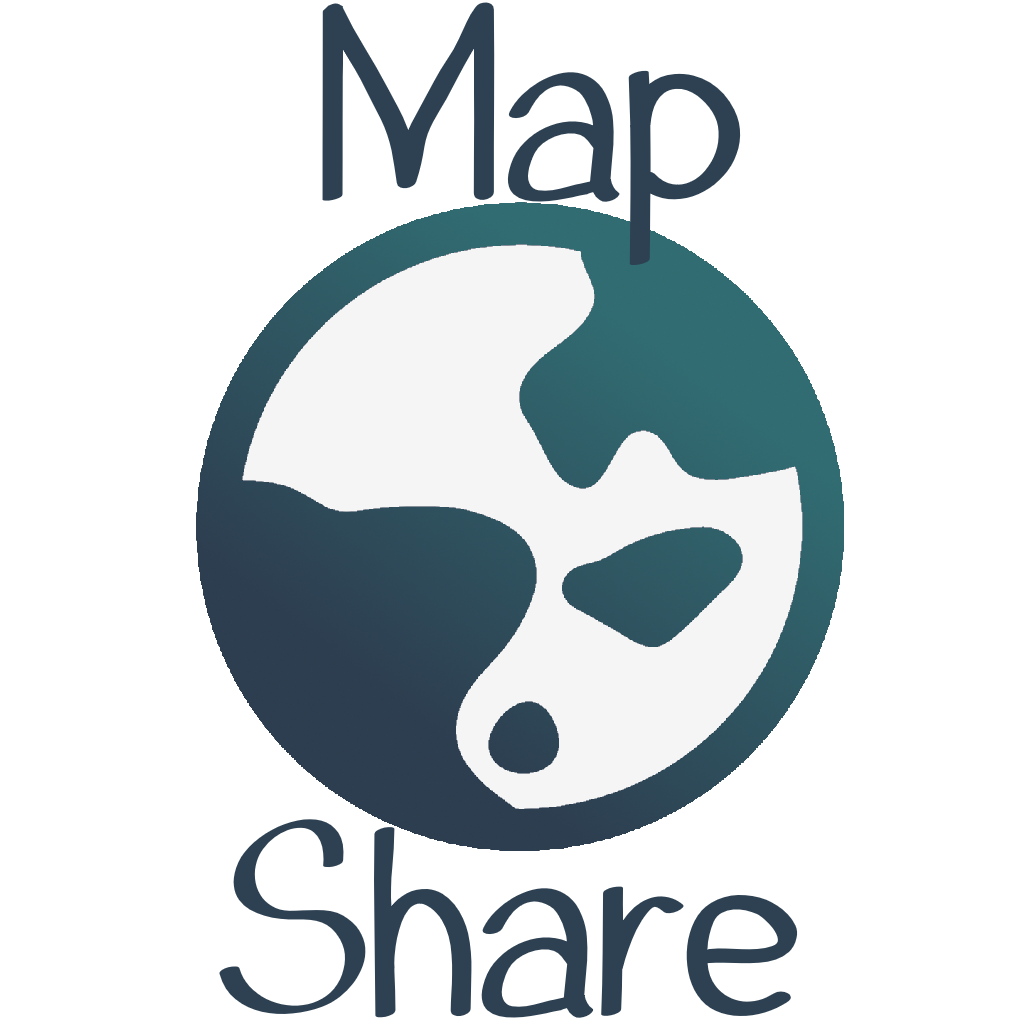
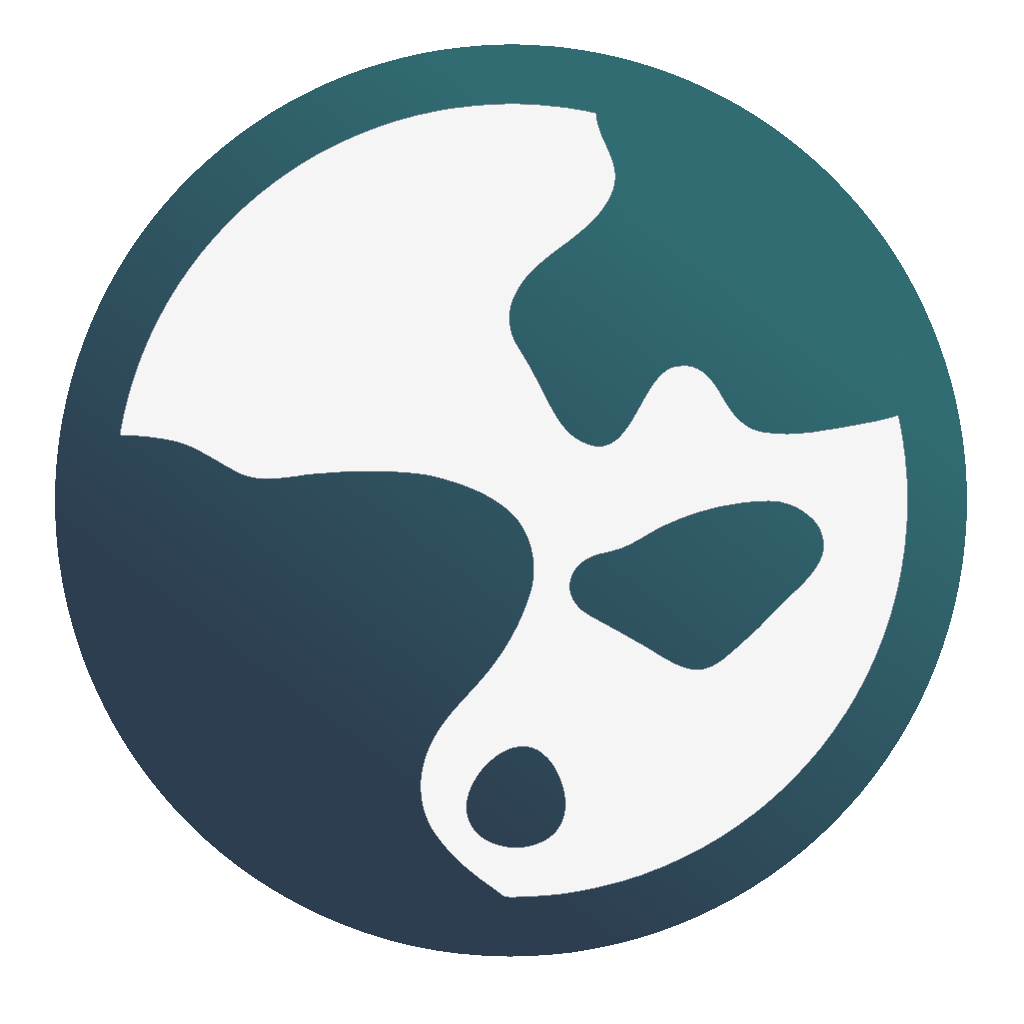
Added user display name and photo url to marker data.

diff --git a/app/screens/MapScreen.js b/app/screens/MapScreen.js
@@ -19,8 +19,6 @@ import * as Location from "expo-location";
 import UserData from "../UserData";
 import { db } from "../../config";
 import firebase from "firebase";
-import { debug } from "react-native-reanimated";
-import * as TaskManager from "expo-task-manager";
 
 const LOCATION_UPDATE = "locationUpdate";
 
@@ -57,6 +55,7 @@ export default class MapScreen extends Component {
 
   componentDidMount() {
     console.log("MOUNT");
+    UserData.updateUserPreferences(firebase.auth().currentUser);
     this.getLocationPermission((location) => {
       UserData.location = {
         latitude: location["coords"]["latitude"],
@@ -94,8 +93,12 @@ export default class MapScreen extends Component {
       this.updateMapMarkers();
     });
 
+    this.markersUpdateInterval = setInterval(this.updateMapMarkers, 10 * 1000);
+
     const { navigation } = this.props;
     this.focusListener = navigation.addListener("didFocus", () => {
+      this.focused = true;
+      console.log("Map screen focus");
       // Check if maps needs to be updated
       this.checkForMapUpdate();
 
@@ -119,8 +122,8 @@ export default class MapScreen extends Component {
     this.focusListener.remove();
     this.blurListener.remove();
 
-    if (this.updateInterval) {
-      clearInterval(this.updateInterval);
+    if (this.markersUpdateInterval) {
+      clearInterval(this.markersUpdateInterval);
     }
 
     Location.hasStartedLocationUpdatesAsync(LOCATION_UPDATE).then((value) => {
@@ -163,8 +166,10 @@ export default class MapScreen extends Component {
   }
 
   updateMapMarkers = async () => {
+    if (!this.focused) {
+      return;
+    }
     console.log("Updating markers");
-
     let markers = [];
 
     // Add user marker
@@ -194,7 +199,7 @@ export default class MapScreen extends Component {
               longitude: entry.val().longitude,
             },
             contentId: entry.val().imageId,
-            title: "Other user",
+            title: entry.val().displayName,
             image: require("../../assets/map-marker-light.png"),
           });
         });
@@ -202,6 +207,9 @@ export default class MapScreen extends Component {
         this.setState({
           markers: markers,
         });
+      })
+      .catch((err) => {
+        console.error(err);
       });
 
     console.log("Setting markers " + markers.length);
@@ -235,7 +243,7 @@ export default class MapScreen extends Component {
     return (
       <SafeAreaView style={styles.container}>
         <MapView
-          region={this.state.location}
+          initialRegion={this.state.location}
           style={styles.map}
           mapType="hybrid"
           maxZoomLevel={15}

diff --git a/app/screens/LoginScreen.js b/app/screens/LoginScreen.js
@@ -3,6 +3,7 @@ import {
   StyleSheet,
   View,
   Text,
+  Image,
   SafeAreaView,
   StatusBar,
   BackHandler,
@@ -15,12 +16,21 @@ import firebase from "firebase/app";
 import * as Facebook from "expo-facebook";
 
 class LoginScreen extends Component {
+  updateUserInfo = async (uid) => {
+    if (this.uploading) return;
+    this.uploading = true;
+
+    this.uploading = false;
+  };
+
   signInWithGoogle = async () => {
     console.log("LoginScreen.js | loggin in with google");
     try {
       const logInResult = await Google.logInAsync({
         androidClientId:
           "961970114032-jekqtd1ug6ugio4ql485g3fj0jdug14g.apps.googleusercontent.com",
+        androidStandaloneAppClientId:
+          "961970114032-h0k9tp0jbgeqc1kbf3rlp66bv20j7gbm.apps.googleusercontent.com",
       });
 
       if (logInResult.type === "success") {
@@ -59,22 +69,26 @@ class LoginScreen extends Component {
     const { navigation } = this.props;
     this.focusListener = navigation.addListener("didFocus", () => {
       // The screen is focused
-
+      console.log("Login focused");
       firebase.auth().onAuthStateChanged((user) => {
         if (user) {
           console.log("User authenticated");
-          this.props.navigation.navigate("Map");
+          navigation.navigate("Map");
         }
       });
 
       let user = firebase.auth().currentUser;
       if (user) {
         console.log("User already authenticated");
-        this.props.navigation.navigate("Map");
-      } else {
-        console.log("No current user");
+        navigation.navigate("Map");
       }
     });
+
+    let user = firebase.auth().currentUser;
+    if (user) {
+      console.log("User already authenticated");
+      navigation.navigate("Map");
+    }
   }
 
   componentWillUnmount() {
@@ -86,7 +100,10 @@ class LoginScreen extends Component {
     console.log("Login screen");
     return (
       <SafeAreaView style={styles.container}>
-        <Text style={styles.title}>MapShare</Text>
+        <Image
+          style={styles.titleLogo}
+          source={require("../../assets/title-logo.png")}
+        ></Image>
         <View style={styles.buttonWrap}>
           <TextButton
             text="Sign in with email"
@@ -116,9 +133,9 @@ const styles = StyleSheet.create({
     justifyContent: "center",
     alignItems: "center",
   },
-  title: {
-    fontSize: 25,
-    paddingBottom: "10%",
+  titleLogo: {
+    width: "40%",
+    height: "30%",
   },
   buttonWrap: {
     padding: "5%",

diff --git a/app/screens/EditorScreen.js b/app/screens/EditorScreen.js
@@ -21,22 +21,18 @@ export default class EditorScreen extends Component {
 
     console.log("Uploading photo");
     try {
-      console.log("Uploading photo1");
       const imagesRef = db.ref("images");
       const newImageRef = imagesRef.push();
 
-      console.log("Uploading photo2");
       const compressed = await ImageManipulator.manipulateAsync(
         image.uri,
         [{ resize: { width: 1080 } }],
         { format: "jpeg", compress: 0.5 }
       );
-      console.log("Uploading photo3");
-      console.log(compressed.uri);
+
       const response = await fetch(compressed.uri);
-      console.log("Uploading photo4");
+
       const imageBlob = await response.blob();
-      console.log("Uploading photo5");
 
       const id = uuid.v4();
       console.log("Uploading photo6");
@@ -52,6 +48,8 @@ export default class EditorScreen extends Component {
         latitude: location.latitude,
         longitude: location.longitude,
         imageId: id,
+        displayName: firebase.auth().currentUser.displayName,
+        photoURL: firebase.auth().currentUser.photoURL,
       });
 
       firebase

diff --git a/app/UserData.js b/app/UserData.js
@@ -1,6 +1,29 @@
+import { db } from "../config";
+import firebase from "firebase";
+
 class UserData {
   static initialLocation = null;
   static location = null;
+
+  static updateUserPreferences = (user) => {
+    let displayName = user.displayName;
+    let photoURL = user.photoURL;
+
+    console.log("Uploading user data");
+    console.log(displayName);
+    console.log(photoURL);
+    try {
+      const usersRef = db.ref("users/" + user.uid);
+
+      usersRef.set({
+        displayName: displayName,
+        photoURL: photoURL,
+      });
+    } catch (err) {
+      console.log("ERROR UPLOADING USER");
+      console.error(err);
+    }
+  };
 }
 
 export default UserData;

diff --git a/App.js b/App.js
@@ -24,14 +24,14 @@ const Navigator = createStackNavigator({
       headerShown: false,
     },
   },
-  Map: {
-    screen: MapScreen,
+  Settings: {
+    screen: SettingsScreen,
     navigationOptions: {
       headerShown: false,
     },
   },
-  Settings: {
-    screen: SettingsScreen,
+  Map: {
+    screen: MapScreen,
     navigationOptions: {
       headerShown: false,
     },
